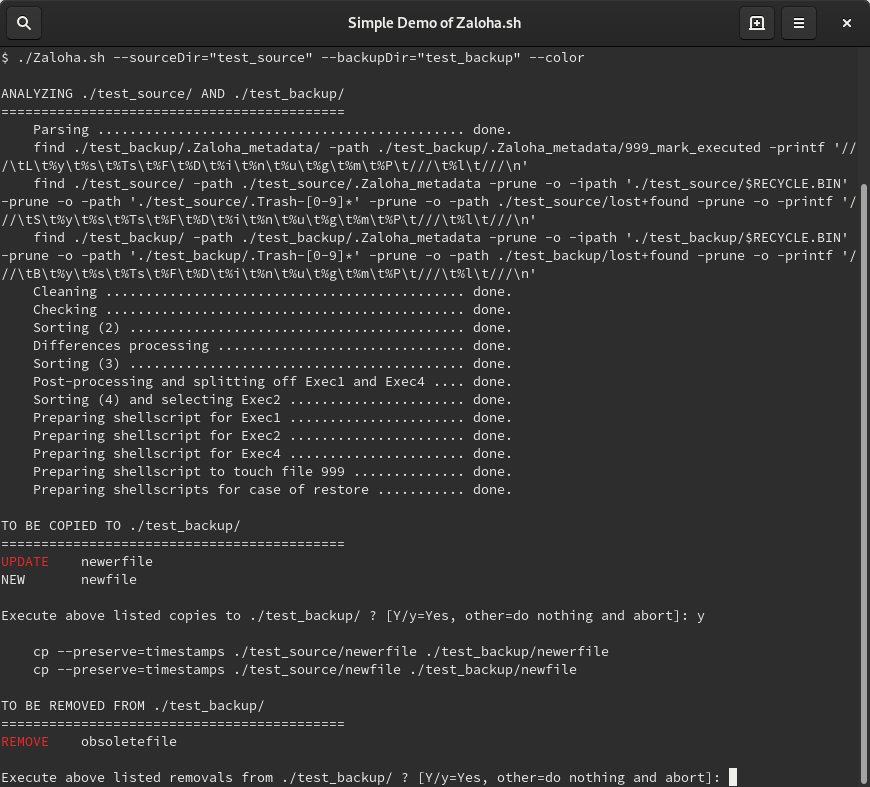
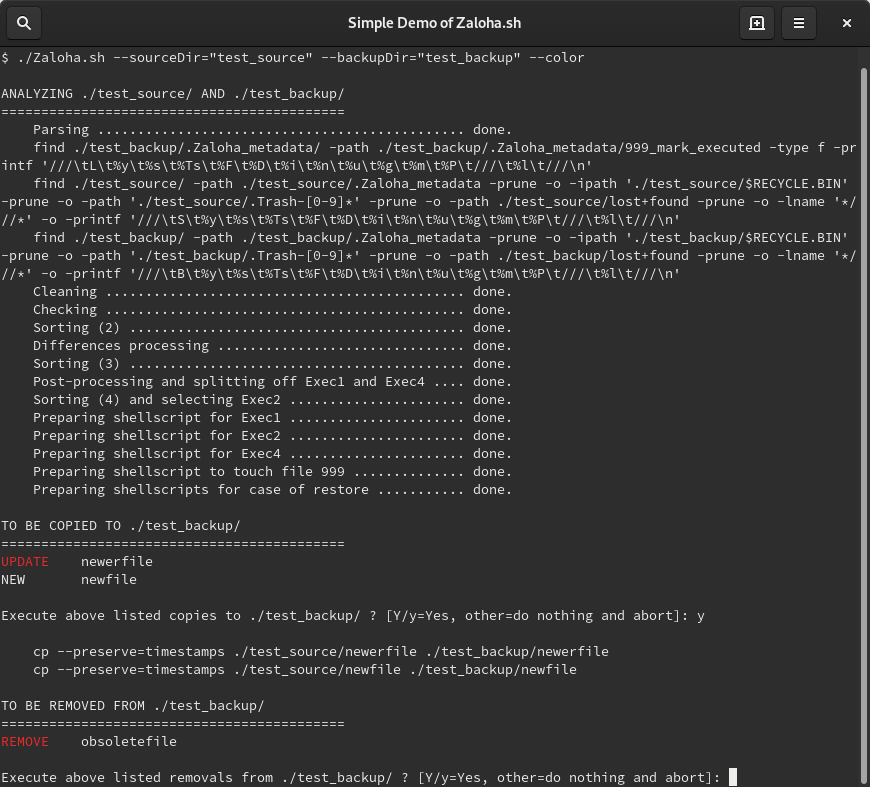
Symbolic link vulnerability removed

diff --git a/DOCUMENTATION.md b/DOCUMENTATION.md
@@ -199,6 +199,10 @@ given, symbolic links on &lt;sourceDir&gt; are followed and the referenced files
 directories are synchronized to &lt;backupDir&gt;. See section Following Symbolic
 Links for details.
 
+  Note: Zaloha is unable to process symbolic links which have not normalized
+  target paths with three or more consecutive slashes (for details, see section
+  on Handling of Weird Characters in Filenames further below).
+
 Zaloha does not synchronize other types of objects in &lt;sourceDir&gt; (named pipes,
 sockets, special devices, etc). These objects are considered to be part of the
 operating system or parts of applications, and dedicated scripts for their
@@ -1068,7 +1072,7 @@ evaluates this situation: The type of the first link will be kept as "file" (f),
 the types of the other links will be changed to "hardlinks" (h).
 
 Then comes the core function of Zaloha. The CSV metadata files from &lt;sourceDir&gt;
-and &lt;backupDir&gt; will be united and sorted by filename and the Source/Backup
+and &lt;backupDir&gt; will be united and sorted by file path and the Source/Backup
 indicator. This means that objects existing in both directories will be in
 adjacent records, with the &lt;backupDir&gt; record coming first. The AWK program
 AWKDIFF evaluates this situation (as well as records from objects existing in
@@ -1150,7 +1154,7 @@ same file's path (column 13).
 <pre>
 Handling of "weird" characters in filenames was a special focus during
 development of Zaloha. Actually, it was an exercise of how far can be gone with
-shellscript alone, without reverting to a C program. Tested were:
+a shellscript alone, without reverting to a C program. Tested were:
 !"#$%&amp;'()*+,-.:;&lt;=&gt;?@[\]^`{|}~, spaces, tabs, newlines, alert (bell) and
 a few national characters (beyond ASCII 127). Please note that some filesystem
 types and operating systems do not permit some of these weird characters at all.
@@ -1192,6 +1196,16 @@ back to backslashes in the AWK programs.
 Zaloha checks that no input parameters contain ///, to avoid breaking of the
 internal escape logic from the outside. The only exception are &lt;findSourceOps&gt;
 and &lt;findGeneralOps&gt;, which may contain the ///d/ placeholder.
+
+Additionally, the internal escape logic might be broken by target paths of
+symbolic links: Unfortunately, the OSes do not normalize target paths with
+consecutive slashes while writing them to the filesystems, and FIND does not
+normalize them either in the -printf %l output. Actually, there seem to be no
+constraints on the target paths of symbolic links. Hence, the /// triplets can
+occur there as well. The solution is the exclusion of such symbolic links from
+the processing, by the FIND expressions -lname *///* -o. Yes, honestly, here we
+hit a limit of how far can be reasonably gone with a shellscript alone. Whether
+such symbolic links are relevant to day-to-day practice is debatable, however.
 
 In the shellscripts produced by Zaloha, single quoting is used, hence single
 quotes are disruptors. As a solution, the '"'"' quoting technique is used.
@@ -1356,6 +1370,15 @@ Backup media overflow attack via symbolic links
 The attacker might create many symbolic links pointing to directories with huge
 contents outside of his home directory, hoping that the backup program writes
 all linked contents to the backup media ...
+
+Mitigation with Zaloha: do not follow symbolic links on &lt;sourceDir&gt; (do not use
+                        the <b>--followSLinksS</b> option)
+
+Unauthorized access via symbolic links
+--------------------------------------
+The attacker might create symbolic links to locations to which he has no access,
+hoping that within the restore process (which he might explicitly request for
+this purpose) the linked content will be restored to his home directory ...
 
 Mitigation with Zaloha: do not follow symbolic links on &lt;sourceDir&gt; (do not use
                         the <b>--followSLinksS</b> option)
